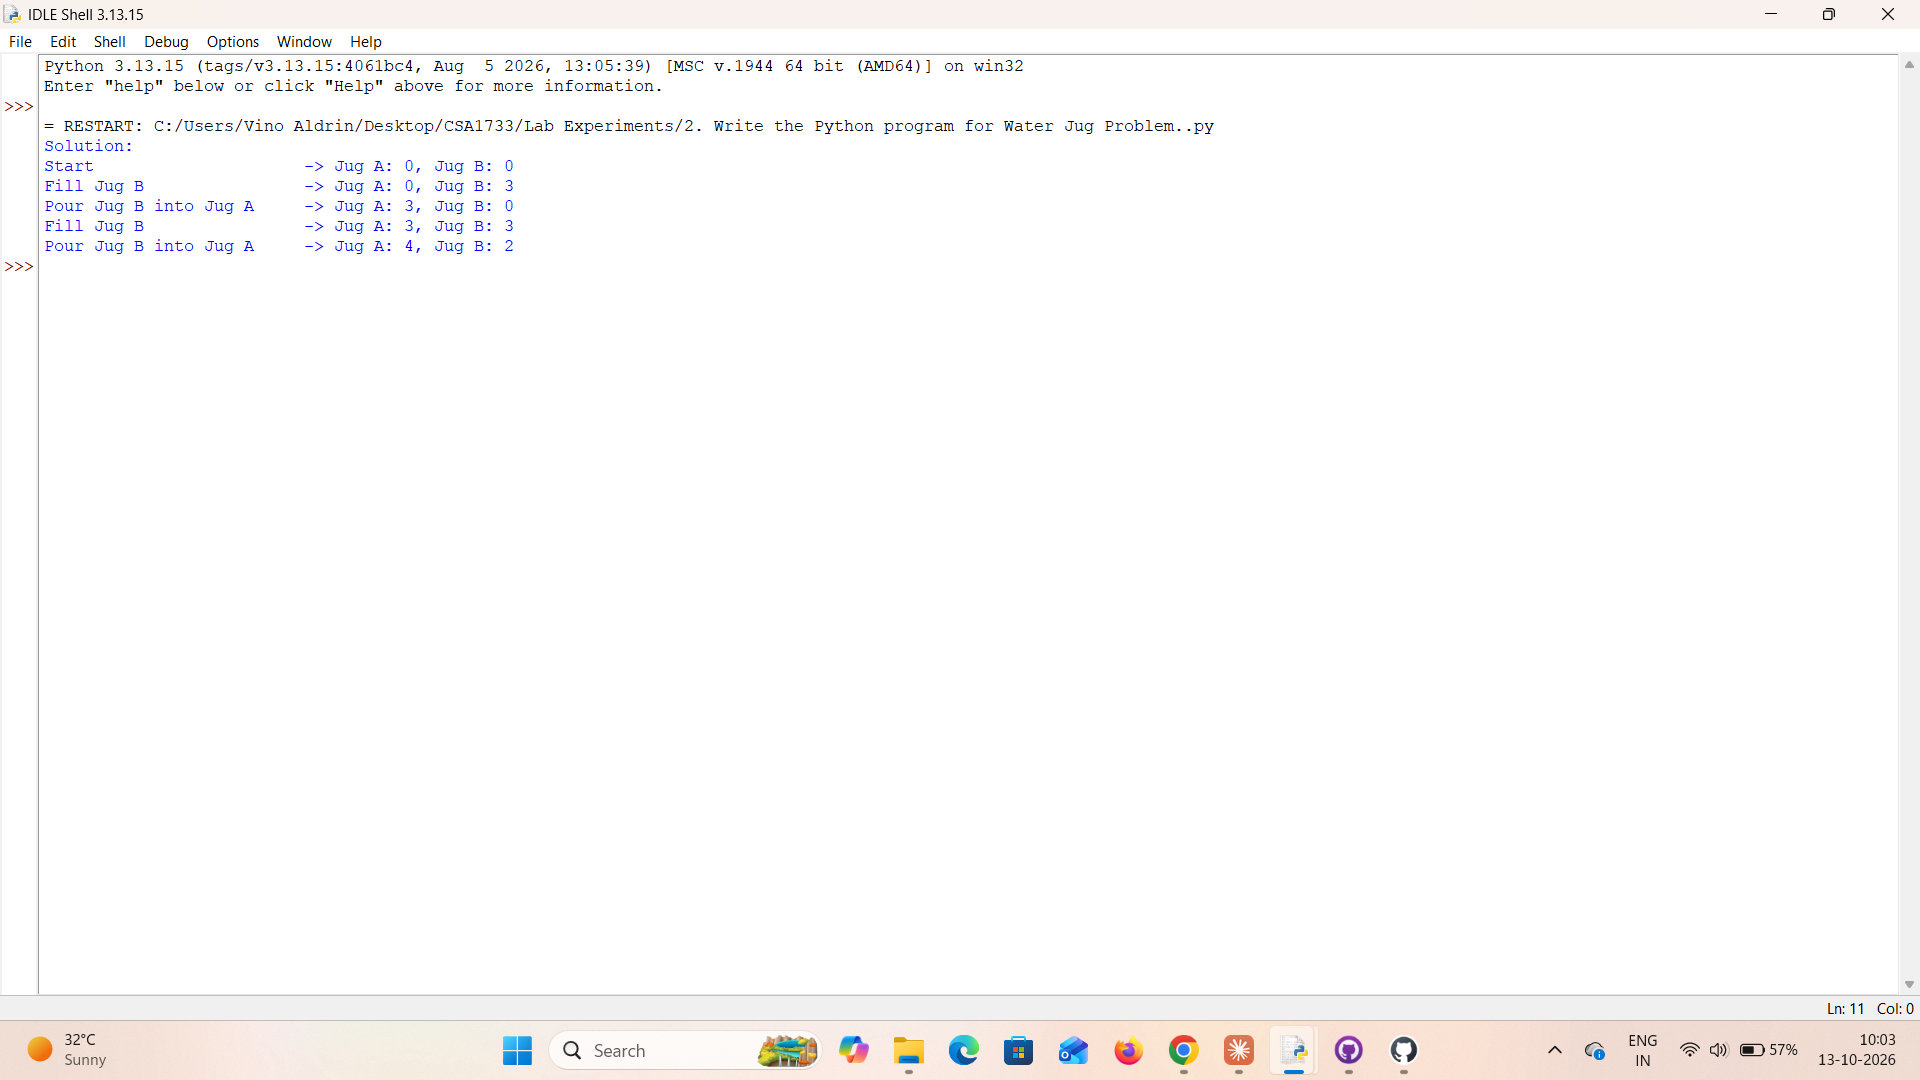
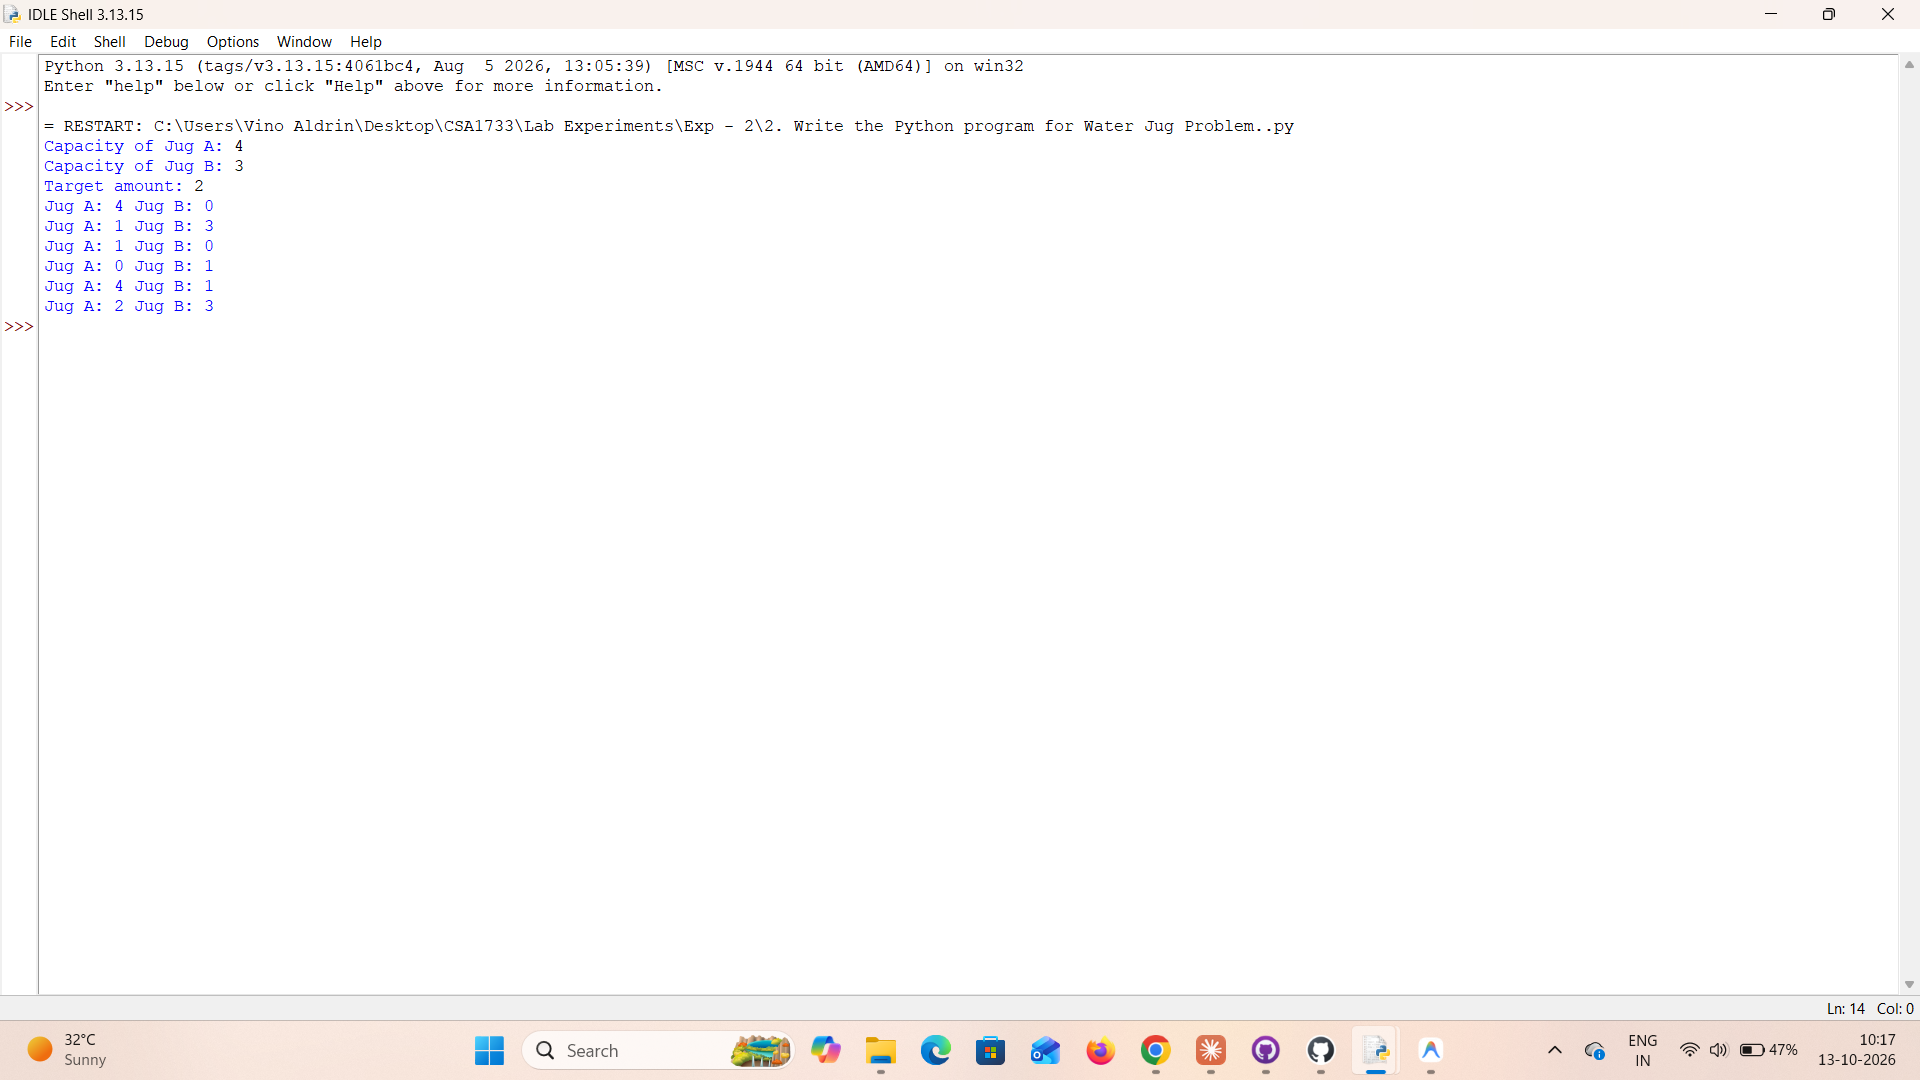
Update source code and output screenshots for Exp - 2 and Exp - 5

diff --git a/Lab Experiments/Exp - 2/2. Write the Python program for Water Jug Problem..py b/Lab Experiments/Exp - 2/2. Write the Python program for Water Jug Problem..py
@@ -1,65 +1,15 @@
-from collections import deque
+a = b = 0
+x = int(input("Capacity of Jug A: "))
+y = int(input("Capacity of Jug B: "))
+target = int(input("Target amount: "))
 
-
-def water_jug_problem(capacity_a, capacity_b, target):
-    if target > max(capacity_a, capacity_b):
-        return None
-
-    if target % __import__("math").gcd(capacity_a, capacity_b) != 0:
-        return None
-
-    start = (0, 0)
-    queue = deque([start])
-    visited = {start}
-    parent = {start: None}
-    action = {}
-
-    while queue:
-        a, b = queue.popleft()
-
-        if a == target or b == target:
-            path = []
-            current = (a, b)
-
-            while current is not None:
-                path.append((current, action.get(current, "Start")))
-                current = parent[current]
-
-            return path[::-1]
-
-        next_states = [
-            ((capacity_a, b), "Fill Jug A"),
-            ((a, capacity_b), "Fill Jug B"),
-            ((0, b), "Empty Jug A"),
-            ((a, 0), "Empty Jug B"),
-        ]
-
-        amount = min(a, capacity_b - b)
-        next_states.append(((a - amount, b + amount), "Pour Jug A into Jug B"))
-
-        amount = min(b, capacity_a - a)
-        next_states.append(((a + amount, b - amount), "Pour Jug B into Jug A"))
-
-        for state, operation in next_states:
-            if state not in visited:
-                visited.add(state)
-                queue.append(state)
-                parent[state] = (a, b)
-                action[state] = operation
-
-    return None
-
-
-# Example: Jug A = 4 litres, Jug B = 3 litres, target = 2 litres
-capacity_a = 4
-capacity_b = 3
-target = 2
-
-solution = water_jug_problem(capacity_a, capacity_b, target)
-
-if solution:
-    print("Solution:")
-    for state, operation in solution:
-        print(f"{operation:25} -> Jug A: {state[0]}, Jug B: {state[1]}")
-else:
-    print("No solution exists.")
+while a != target and b != target:
+    if a == 0:
+        a = x
+    elif b == y:
+        b = 0
+    else:
+        p = min(a, y - b)
+        a -= p
+        b += p
+    print("Jug A:", a, "Jug B:", b)

diff --git a/Lab Experiments/Exp - 5/5. Write the Python program for Vacuum Cleaner problem..py b/Lab Experiments/Exp - 5/5. Write the Python program for Vacuum Cleaner problem..py
@@ -1,18 +1,16 @@
-# Vacuum Cleaner Problem
+a = input("Enter Room A status (clean/dirty): ").lower()
+b = input("Enter Room B status (clean/dirty): ").lower()
+position = input("Enter vacuum position (A/B): ").upper()
 
-room_a = input("Enter status of Room A (Clean/Dirty): ").lower()
-room_b = input("Enter status of Room B (Clean/Dirty): ").lower()
-location = input("Enter vacuum location (A/B): ").upper()
-
-rooms = {"A": room_a, "B": room_b}
-
-for room in ["A", "B"]:
-    if rooms[location] == "dirty":
-        print("Cleaning Room", location)
-        rooms[location] = "clean"
-    else:
-        print("Room", location, "is already clean")
-
-    location = "B" if location == "A" else "A"
+if position == "A":
+    if a == "dirty":
+        print("Cleaning Room A")
+    if b == "dirty":
+        print("Cleaning Room B")
+else:
+    if b == "dirty":
+        print("Cleaning Room B")
+    if a == "dirty":
+        print("Cleaning Room A")
 
 print("Both rooms are clean.")
